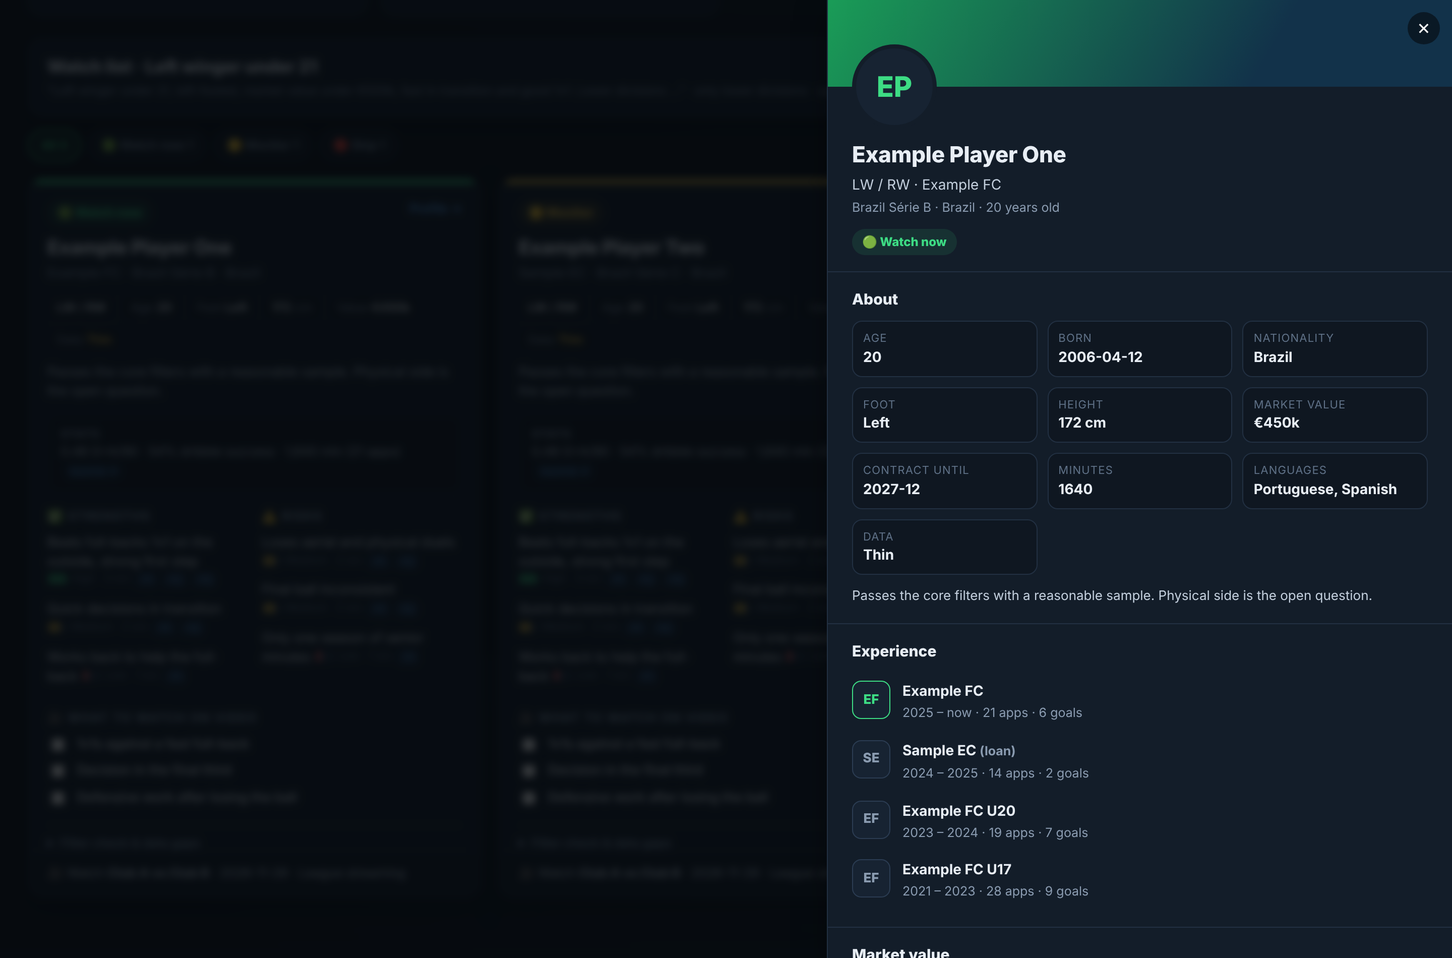
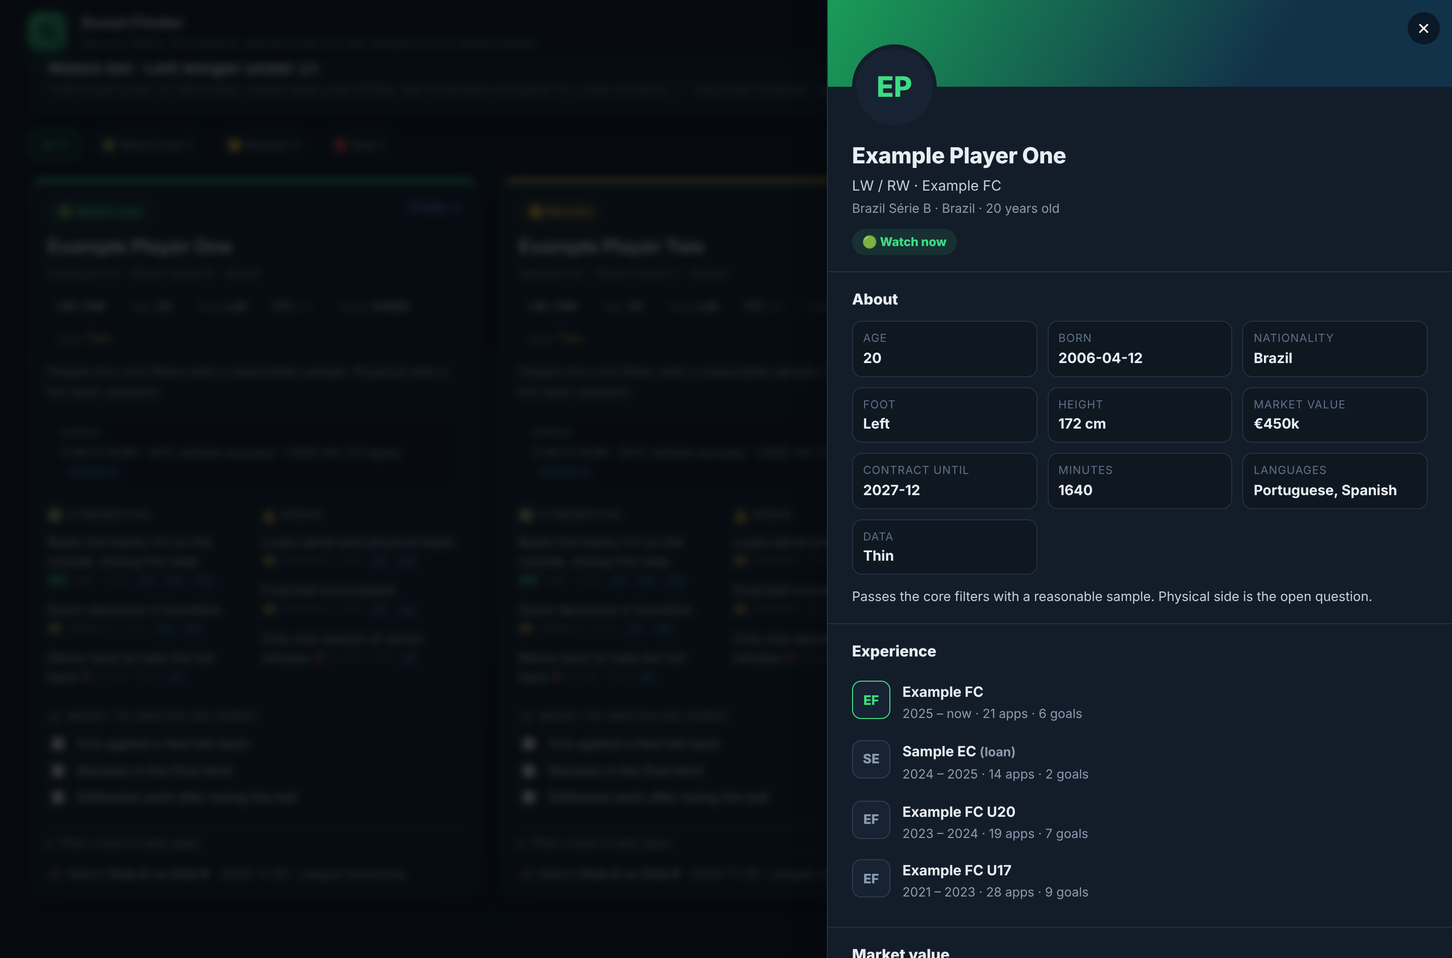
All filters on one screen, custom filters, clearer intro
- Compact 6-column filter grid that fits a 1366x768 screen without scrolling
- "+ Add filter": the scout's own free-text filters are passed to the search
- League, language and stat suggestions as autocomplete instead of chip clouds
- Header line explains the flow: filters, find players, send to Notion

Claude-Session: https://claude.ai/code/session_01S9b4rMVSmiBwiELNcknNUC

diff --git a/ui.html b/ui.html
@@ -21,7 +21,7 @@ body{background:radial-gradient(1200px 600px at 80% -10%,#12324a55,transparent),
 button,input,select,textarea{font:inherit;color:inherit}
 a{color:var(--blue);text-decoration:none}
 /* header */
-header{display:flex;align-items:center;gap:14px;padding:16px 28px;border-bottom:1px solid var(--line);
+header{display:flex;align-items:center;gap:14px;padding:10px 28px;border-bottom:1px solid var(--line);
   background:rgba(11,17,24,.75);backdrop-filter:blur(10px);position:sticky;top:0;z-index:5}
 .logo{width:38px;height:38px;border-radius:11px;background:linear-gradient(135deg,var(--accent),#1a9c57);
   display:grid;place-items:center;box-shadow:0 6px 18px #3ddc8444}
@@ -142,11 +142,11 @@ details ul{margin:8px 0;padding-left:18px;font-size:12.5px;color:#c3cfdd}
 .hist span{display:block;color:var(--muted);font-size:12px}
 .toast{position:fixed;bottom:22px;left:50%;transform:translateX(-50%);background:var(--text);color:#0b1118;padding:10px 16px;border-radius:10px;font-weight:600;z-index:30;box-shadow:var(--shadow)}
 /* ---------- layout v2: search on top, filters spread out, results below ---------- */
-main{display:block;max-width:1440px;margin:0 auto;padding:24px 28px 60px}
-.search{padding:18px 20px;margin-bottom:16px}
+main{display:block;max-width:1440px;margin:0 auto;padding:16px 28px 60px}
+.search{padding:14px 18px;margin-bottom:12px}
 .search h2{margin-bottom:10px}
-.sbox textarea{min-height:84px;font-size:15px;line-height:1.5;padding:14px 16px;border-radius:12px}
-.sbar{display:flex;flex-wrap:wrap;align-items:center;gap:12px;margin-top:12px}
+.sbox textarea{min-height:56px;height:56px;font-size:15px;line-height:1.5;padding:14px 16px;border-radius:12px}
+.sbar{display:flex;flex-wrap:wrap;align-items:center;gap:12px;margin-top:10px}
 .sbar .sp{flex:1}
 .sbar .seg{margin:0}
 .sbar .seg button{flex:none;padding:7px 14px}
@@ -157,7 +157,22 @@ main{display:block;max-width:1440px;margin:0 auto;padding:24px 28px 60px}
 .fhead2 h2{margin:0}.fhead2 .sp{flex:1}
 .linkbtn{background:none;border:0;color:var(--blue);cursor:pointer;font-weight:600;font-size:12px;padding:4px}
 .linkbtn:hover{text-decoration:underline}
-.fgrid{display:grid;grid-template-columns:repeat(auto-fill,minmax(300px,1fr));gap:14px;margin-bottom:22px}
+.filters{padding:14px 18px 16px;margin-bottom:22px}
+.filters .fhead2{margin:0 0 10px}
+.filters .opt{text-transform:none;letter-spacing:0;font-weight:500;color:var(--dim);margin-left:6px}
+.fgrid{display:grid;grid-template-columns:repeat(6,1fr);gap:10px 14px}
+.field{min-width:0}
+.field label{margin:0 0 5px;display:flex;align-items:center;font-size:11.5px}
+.field.c2{grid-column:span 2}.field.c3{grid-column:span 3}
+@media(max-width:1100px){.fgrid{grid-template-columns:repeat(4,1fr)}}
+@media(max-width:700px){.fgrid{grid-template-columns:1fr 1fr}.field.c2,.field.c3{grid-column:span 2}}
+.filters input[type=text],.filters input[type=number],.filters select{padding:7px 10px;font-size:13px;height:36px}
+.filters .tags{min-height:36px;padding:3px 6px;flex-wrap:nowrap;overflow-x:auto}
+.filters .tags input{min-width:60px;height:auto}
+.filters .seg{padding:3px;height:36px}.filters .seg button{padding:4px 6px;font-size:12px}
+.filters .row{gap:6px}
+.posrow{display:flex;flex-wrap:wrap;gap:5px}
+.posrow .chip{padding:7px 0;border-radius:8px;flex:1;min-width:34px;text-align:center;font-size:11.5px}
 .tile{background:var(--card);border:1px solid var(--line);border-radius:var(--radius);padding:14px 16px 16px}
 .tile .gt{font-size:11px;text-transform:uppercase;letter-spacing:1.1px;color:var(--dim);font-weight:700;margin-bottom:8px}
 .tile label:first-of-type{margin-top:0}
@@ -218,7 +233,7 @@ main{display:block;max-width:1440px;margin:0 auto;padding:24px 28px 60px}
 <body>
 <header>
   <div class="logo"><svg width="22" height="22" viewBox="0 0 24 24" fill="none" stroke="#06240f" stroke-width="2.2" stroke-linecap="round"><circle cx="11" cy="11" r="7"/><path d="M21 21l-4.3-4.3"/><path d="M11 8v6M8 11h6"/></svg></div>
-  <div class="brand"><b>Scout Finder</b><span>Find the right players, fast.</span></div>
+  <div class="brand"><b>Scout Finder</b><span>Set your filters, find players, add the ones you like straight to your Notion board.</span></div>
   <div class="sp"></div>
   <button class="iconbtn" id="histBtn">🕘 Saved searches</button>
   <button class="iconbtn" id="setBtn"><span class="dot" id="keyDot"></span> Settings</button>
@@ -232,70 +247,51 @@ main{display:block;max-width:1440px;margin:0 auto;padding:24px 28px 60px}
     <div class="sbar">
       <span class="lbl">Show the top</span>
       <div class="seg" id="topSeg"><button data-t="5">5</button><button data-t="10" class="on">10</button><button data-t="15">15</button></div>
-      <span class="active"><b id="activeN">0</b> extra filters · <button class="linkbtn" id="resetBtn">Reset all</button></span>
+      <span class="active"><b id="activeN">0</b> filters set</span>
       <div class="sp"></div>
       <span class="active" id="eta">≈ 5–10 min</span>
       <button class="primary" id="runBtn">Find players</button>
     </div>
   </section>
 
-  <!-- 2. filters, spread out -->
-  <div class="fhead2"><h2>Filters <span style="text-transform:none;letter-spacing:0;font-weight:500">(optional, the text above is enough)</span></h2><div class="sp"></div>
-    <button class="linkbtn" id="toggleF">Hide filters</button></div>
-  <section class="fgrid" id="formPanel">
-    <div class="tile"><div class="gt">Position</div><div class="posgrid" id="posGrid"></div></div>
+  <!-- 2. all filters on one screen -->
+  <section class="panel filters" id="formPanel">
+    <div class="fhead2"><h2>Filters <span class="opt">optional · the text above is enough</span></h2><div class="sp"></div>
+      <button class="linkbtn" id="resetBtn">Reset all</button></div>
+    <div class="fgrid">
+      <div class="field c3"><label>Position</label><div class="posrow" id="posGrid"></div></div>
+      <div class="field"><label>Age</label><div class="row"><input type="number" id="fAgeMin" placeholder="Min"><input type="number" id="fAgeMax" placeholder="Max"></div></div>
+      <div class="field"><label>Min value</label><div class="unit"><input type="number" id="fMinVal" placeholder="Any" step="50"><span>k €</span></div></div>
+      <div class="field"><label>Max value</label>
+        <select id="fMaxSel"><option value="">Any</option><option value="250">€250k</option><option value="500">€500k</option><option value="1000">€1M</option><option value="3000">€3M</option><option value="10000">€10M</option></select></div>
 
-    <div class="tile"><div class="gt">Age</div>
-      <div class="row"><div class="unit"><input type="number" id="fAgeMin" placeholder="Min"><span>yrs</span></div>
-        <div class="unit"><input type="number" id="fAgeMax" placeholder="Max"><span>yrs</span></div></div>
-      <div class="quick" id="ageQuick"><button class="chip" data-a="19">U19</button><button class="chip" data-a="21">U21</button><button class="chip" data-a="23">U23</button><button class="chip" data-a="">Any</button></div>
-      <div class="gt" style="margin-top:14px">Budget · market value</div>
-      <div class="row"><div class="unit"><input type="number" id="fMinVal" placeholder="Min" step="50"><span>k €</span></div>
-        <div class="unit"><input type="number" id="fMaxVal" placeholder="Max" step="50"><span>k €</span></div></div>
-      <div class="quick" id="valQuick"><button class="chip" data-v="250">≤ €250k</button><button class="chip" data-v="500">≤ €500k</button><button class="chip" data-v="1000">≤ €1M</button><button class="chip" data-v="3000">≤ €3M</button><button class="chip" data-v="">Any</button></div>
-    </div>
+      <div class="field c2"><label>Leagues / countries</label>
+        <div class="tags" id="leagueTags"><input type="text" list="dlLeagues" placeholder="e.g. Brazil, Portugal Liga 2"></div></div>
+      <div class="field c2"><label>Divisions</label>
+        <div class="seg small" id="lowerSeg"><button data-l="" class="on">Top only</button><button data-l="also">+ Lower</button><button data-l="only">Only lower</button></div></div>
+      <div class="field"><label>Nationality</label><div class="tags" id="natTags"><input type="text" placeholder="Any"></div></div>
+      <div class="field"><label>Languages</label><div class="tags" id="langTags"><input type="text" list="dlLangs" placeholder="Any"></div></div>
 
-    <div class="tile"><div class="gt">Leagues / countries</div>
-      <div class="tags" id="leagueTags"><input type="text" placeholder="Type and press Enter"></div>
-      <div class="quick" id="leagueQuick"></div>
-      <div class="gt" style="margin-top:14px">Divisions</div>
-      <div class="seg small" id="lowerSeg"><button data-l="" class="on">Top only</button><button data-l="also">+ Lower</button><button data-l="only">Only lower</button></div>
-    </div>
+      <div class="field"><label>Foot</label>
+        <div class="seg small" id="footSeg"><button data-f="Any" class="on">Any</button><button data-f="Left">Left</button><button data-f="Right">Right</button></div></div>
+      <div class="field"><label>Min height</label><div class="unit"><input type="number" id="fHeight" placeholder="Any"><span>cm</span></div></div>
+      <div class="field"><label>Contract ends by</label><select id="fContract"><option value="">Any</option><option>2026</option><option>2027</option><option>2028</option></select></div>
+      <div class="field"><label>Minutes this season</label><select id="fMinutes"><option value="">Any</option><option value="450">450+</option><option value="900">900+</option><option value="1500">1,500+</option></select></div>
+      <div class="field c2"><label>Stat thresholds</label><input type="text" id="fCriteria" list="dlCrit" placeholder="G+A per 90 ≥ 0.4; dribble success ≥ 50%"></div>
 
-    <div class="tile"><div class="gt">Nationality</div>
-      <div class="tags" id="natTags"><input type="text" placeholder="Any nationality"></div>
-      <div class="gt" style="margin-top:14px">Languages spoken</div>
-      <div class="tags" id="langTags"><input type="text" placeholder="Any language"></div>
-      <div class="quick" id="langQuick"></div>
+      <div class="field c2"><label>Style, checked on video</label><input type="text" id="fMust" placeholder="Pace in transition, presses"></div>
+      <div class="field c2"><label>Brief specific players</label><input type="text" id="fPlayers" placeholder="Names, comma separated"></div>
+      <div class="field c2"><label>Your own filters <button class="linkbtn" id="addCustom" style="margin-left:4px">＋ Add filter</button></label>
+        <div class="tags" id="customTags"><input type="text" placeholder="e.g. EU passport · press Enter"></div></div>
     </div>
-
-    <div class="tile"><div class="gt">Profile</div>
-      <label>Preferred foot</label>
-      <div class="seg small" id="footSeg"><button data-f="Any" class="on">Any</button><button data-f="Left">Left</button><button data-f="Right">Right</button></div>
-      <div class="row">
-        <div><label>Min height</label><div class="unit"><input type="number" id="fHeight" placeholder="Any"><span>cm</span></div></div>
-        <div><label>Contract ends by</label><select id="fContract"><option value="">Any</option><option>2026</option><option>2027</option><option>2028</option></select></div>
-      </div>
-      <label>Minutes this season</label>
-      <div class="quick" id="minQuick" style="margin-top:0"><button class="chip on" data-m="">Any</button><button class="chip" data-m="450">450+</button><button class="chip" data-m="900">900+</button><button class="chip" data-m="1500">1,500+</button></div>
-    </div>
-
-    <div class="tile"><div class="gt">Performance</div>
-      <label>Stat thresholds</label>
-      <textarea id="fCriteria" placeholder="G+A per 90 ≥ 0.4; dribble success ≥ 50%"></textarea>
-      <div class="quick" id="critQuick"></div>
-      <label>Style, checked on video</label>
-      <textarea id="fMust" placeholder="Pace in transition, presses, works without the ball"></textarea>
-      <label>Or brief specific players</label>
-      <input type="text" id="fPlayers" placeholder="Names, comma separated">
-    </div>
+    <datalist id="dlLeagues"></datalist><datalist id="dlLangs"></datalist><datalist id="dlCrit"></datalist>
   </section>
 
   <!-- 3. results -->
   <section id="results">
     <div id="vEmpty" class="panel hero">
       <h1>Find the right players, fast.</h1>
-      <p>Describe who you need and press Find players.</p>
+      <p>1. Describe the player or set filters · 2. Find players · 3. Click ＋ Watchlist to send them to your Notion board.</p>
       <div class="flow">
         <div><i>✍</i><b>Describe</b><span>Plain words, or the filters</span></div>
         <div><i>🔎</i><b>Find</b><span>Transfermarkt, FotMob, Sofascore, Ogol</span></div>
@@ -394,15 +390,15 @@ function toast(t){const d=document.createElement("div");d.className="toast";d.te
 /* ---------- filter state ---------- */
 let foot="Any", lower="", topN=10, minMinutes="", positions=new Set(), added={}, current=null, settings={}, sigFilter="all";
 const POS_GROUPS = [["Goal & defence",["GK","CB","RB","LB","RWB","LWB"]],["Midfield",["DM","CM","AM"]],["Attack",["RW","LW","SS","ST"]]];
-$("#posGrid").innerHTML = POS_GROUPS.map(([g,ps]) => `<div class="lbl">${g}</div>` + ps.map(p=>`<button class="chip" data-p="${p}">${p}</button>`).join("")).join("");
+$("#posGrid").innerHTML = POS_GROUPS.flatMap(([g,ps]) => ps).map(p=>`<button class="chip" data-p="${p}">${p}</button>`).join("");
 $("#posGrid").onclick = e => { const p=e.target.dataset.p; if(!p) return; positions.has(p)?positions.delete(p):positions.add(p); e.target.classList.toggle("on"); count(); };
 
 const LEAGUES = ["Brazil Série A","Brazil Série B","Brazil Série C","Argentina Primera","Argentina Primera Nacional","Colombia Primera A","Ghana","Nigeria","Senegal","Portugal Liga 2","Belgium 2nd tier","Netherlands Eerste Divisie","Denmark Superliga","Norway Eliteserien","Austria Bundesliga"];
 const LANGS = ["English","Spanish","Portuguese","French","German","Italian","Turkish","Arabic"];
 const CRIT = ["G+A per 90 ≥ 0.4","Dribble success ≥ 50%","Avg rating ≥ 7.0","Key passes per 90 ≥ 1.5","Pass accuracy ≥ 80%","Tackles + interceptions per 90 ≥ 3","Aerial duels won ≥ 55%"];
-$("#critQuick").innerHTML = CRIT.map(c=>`<button class="chip" data-c="${esc(c)}">+ ${esc(c)}</button>`).join("");
-$("#critQuick").onclick = e => { const c=e.target.dataset.c; if(!c) return; const t=$("#fCriteria");
-  if(t.value.includes(c)) return; t.value = (t.value.trim() ? t.value.trim().replace(/;?$/,"; ") : "") + c; count(); };
+$("#dlLeagues").innerHTML = LEAGUES.map(l=>`<option value="${esc(l)}">`).join("");
+$("#dlLangs").innerHTML = LANGS.map(l=>`<option value="${esc(l)}">`).join("");
+$("#dlCrit").innerHTML = CRIT.map(l=>`<option value="${esc(l)}">`).join("");
 
 function tagBox(id, quickId, list){
   const box=$(id), input=box.querySelector("input"), vals=[];
@@ -410,6 +406,7 @@ function tagBox(id, quickId, list){
     vals.forEach((v,i)=>{ const t=document.createElement("span"); t.className="tagx"; t.innerHTML=`${esc(v)}<button data-i="${i}">×</button>`; box.insertBefore(t,input); });
     if(quickId) $$(quickId+" .chip").forEach(c=>c.classList.toggle("on", vals.includes(c.dataset.l))); count(); };
   const add=v=>{ v=v.trim(); if(v && !vals.includes(v)){ vals.push(v); render(); } };
+  input.onchange=()=>{ if(input.list && [...input.list.options].some(o=>o.value===input.value)){ add(input.value); input.value=""; } };
   input.onkeydown=e=>{ if(e.key==="Enter"||e.key===","){ e.preventDefault(); add(input.value); input.value=""; }
     if(e.key==="Backspace" && !input.value && vals.length){ vals.pop(); render(); } };
   input.onblur=()=>{ if(input.value){ add(input.value); input.value=""; } };
@@ -418,9 +415,11 @@ function tagBox(id, quickId, list){
     $(quickId).onclick=e=>{ const l=e.target.dataset.l; if(!l) return; const i=vals.indexOf(l); i>=0?vals.splice(i,1):vals.push(l); render(); }; }
   return {vals, set:a=>{ vals.splice(0,vals.length,...a); render(); }};
 }
-const leagues = tagBox("#leagueTags","#leagueQuick",LEAGUES);
+const leagues = tagBox("#leagueTags");
 const nats = tagBox("#natTags");
-const langs = tagBox("#langTags","#langQuick",LANGS);
+const langs = tagBox("#langTags");
+const custom = tagBox("#customTags");
+$("#addCustom").onclick = e => { e.preventDefault(); $("#customTags input").focus(); };
 
 function seg(id, attr, cb){ $(id).onclick = e => { const v=e.target.dataset[attr]; if(v===undefined) return;
   $$(id+" button").forEach(b=>b.classList.toggle("on", b===e.target)); cb(v); count(); }; }
@@ -431,40 +430,35 @@ seg("#topSeg","t", v=>{ topN=+v; eta(); });
 function eta(){ const n = $("#fPlayers").value.split(",").filter(x=>x.trim()).length || topN;
   $("#eta").textContent = `≈ ${Math.max(1,Math.round(n*0.6))}–${Math.max(2,n)} min`; }
 
-$("#ageQuick").onclick = e => { const a=e.target.dataset.a; if(a===undefined) return; $("#fAgeMax").value=a; if(!a) $("#fAgeMin").value="";
-  $$("#ageQuick .chip").forEach(c=>c.classList.toggle("on", c===e.target && a!=="")); count(); };
-$("#valQuick").onclick = e => { const v=e.target.dataset.v; if(v===undefined) return; $("#fMaxVal").value=v; if(!v) $("#fMinVal").value="";
-  $$("#valQuick .chip").forEach(c=>c.classList.toggle("on", c===e.target && v!=="")); count(); };
-$("#minQuick").onclick = e => { const m=e.target.dataset.m; if(m===undefined) return; minMinutes=m; $$("#minQuick .chip").forEach(c=>c.classList.toggle("on", c===e.target)); count(); };
-$$("#formPanel input, #formPanel textarea, #formPanel select").forEach(el=>el.addEventListener("input", ()=>{ count(); eta(); }));
-$("#toggleF").onclick = () => { const h=$("#formPanel").classList.toggle("hidden"); $("#toggleF").textContent = h ? "Show filters" : "Hide filters"; };
+$$("#formPanel input, #formPanel select").forEach(el=>{ el.addEventListener("input", ()=>{ count(); eta(); }); el.addEventListener("change", count); });
 $("#fDesc").onkeydown = e => { if(e.key==="Enter" && (e.ctrlKey||e.metaKey)) $("#runBtn").click(); };
 
 function getFilters(){
   const k = v => v==="" ? "" : String(Number(v)*1000), d=$("#fDesc").value.trim();
   return { title:d.split(/[.\n]/)[0].slice(0,60) || "Player search", description:d, positions:[...positions], age_min:$("#fAgeMin").value, age_max:$("#fAgeMax").value, foot,
-    min_value:k($("#fMinVal").value), max_value:k($("#fMaxVal").value), leagues:[...leagues.vals], nationalities:[...nats.vals], languages:[...langs.vals],
-    lower, min_minutes:minMinutes, min_height:$("#fHeight").value, contract_by:$("#fContract").value,
-    criteria:$("#fCriteria").value, must_haves:$("#fMust").value };
+    min_value:k($("#fMinVal").value), max_value:k($("#fMaxSel").value), leagues:[...leagues.vals], nationalities:[...nats.vals], languages:[...langs.vals],
+    lower, min_minutes:$("#fMinutes").value, min_height:$("#fHeight").value, contract_by:$("#fContract").value,
+    criteria:$("#fCriteria").value, must_haves:$("#fMust").value, custom:[...custom.vals] };
 }
 function count(){
   const f=getFilters(); let n=0;
   n += f.positions.length?1:0; n += (f.age_min||f.age_max)?1:0; n += (f.min_value||f.max_value)?1:0; n += f.leagues.length?1:0; n += f.lower?1:0;
   n += f.nationalities.length?1:0; n += f.languages.length?1:0; n += f.foot!=="Any"?1:0; n += f.min_minutes?1:0; n += f.min_height?1:0; n += f.contract_by?1:0;
-  n += f.criteria.split(";").filter(x=>x.trim()).length; n += f.must_haves.trim()?1:0;
+  n += f.criteria.split(";").filter(x=>x.trim()).length; n += f.must_haves.trim()?1:0; n += f.custom.length;
   $("#activeN").textContent = n; return n;
 }
 function setFilters(f){
   $("#fDesc").value=f.description||(f.title&&f.title!=="Player search"?f.title:""); positions=new Set(f.positions||[]); $$("#posGrid .chip").forEach(c=>c.classList.toggle("on",positions.has(c.dataset.p)));
   $("#fAgeMin").value=f.age_min??""; $("#fAgeMax").value=f.age_max??"";
-  $("#fMinVal").value=f.min_value_eur?f.min_value_eur/1000:""; $("#fMaxVal").value=f.max_value_eur?f.max_value_eur/1000:"";
-  leagues.set(f.leagues||[]); nats.set(f.nationalities||[]); langs.set(f.languages||[]);
+  $("#fMinVal").value=f.min_value_eur?f.min_value_eur/1000:"";
+  const mx=f.max_value_eur?String(f.max_value_eur/1000):""; if(mx && ![...$("#fMaxSel").options].some(o=>o.value===mx)) $("#fMaxSel").add(new Option("€"+mx+"k", mx)); $("#fMaxSel").value=mx;
+  leagues.set(f.leagues||[]); nats.set(f.nationalities||[]); langs.set(f.languages||[]); custom.set(f.custom||[]);
   lower = f.only_lower_leagues ? "only" : f.include_lower_leagues ? "also" : ""; setSeg("#lowerSeg","l",lower);
   foot=f.foot||"Any"; setSeg("#footSeg","f",foot);
-  minMinutes=f.min_minutes?String(f.min_minutes):""; $$("#minQuick .chip").forEach(c=>c.classList.toggle("on", c.dataset.m===minMinutes));
+  $("#fMinutes").value=f.min_minutes?String(f.min_minutes):"";
   $("#fHeight").value=f.min_height_cm??""; $("#fContract").value=f.contract_ends_by||"";
   $("#fCriteria").value=f.criteria||""; $("#fMust").value=f.must_haves||"";
-  $$("#ageQuick .chip, #valQuick .chip").forEach(c=>c.classList.remove("on")); count();
+  count();
 }
 $("#resetBtn").onclick = () => { setFilters({}); $("#fPlayers").value=""; toast("Search cleared"); };
 
@@ -551,7 +545,7 @@ function nextStep(b){
 function filterLine(f){
   return [f.description?`“${f.description.slice(0,110)}${f.description.length>110?"…":""}”`:"", (f.positions||[]).join("/"), (f.age_min||f.age_max)?`age ${f.age_min||"any"}–${f.age_max||"any"}`:"", f.max_value_eur?`≤ ${euro(f.max_value_eur)}`:"",
     f.foot&&f.foot!=="Any"?`${f.foot} foot`:"", (f.leagues||[]).join(", "), f.only_lower_leagues?"only lower divisions":f.include_lower_leagues?"+ lower divisions":"",
-    (f.nationalities||[]).join(", "), (f.languages||[]).length?"speaks "+f.languages.join("/"):"", f.min_minutes?`${f.min_minutes}+ min`:""].filter(Boolean).join(" · ");
+    (f.nationalities||[]).join(", "), (f.languages||[]).length?"speaks "+f.languages.join("/"):"", ...(f.custom||[]), f.min_minutes?`${f.min_minutes}+ min`:""].filter(Boolean).join(" · ");
 }
 function card(b,i){
   const k = sigClass(b.signal), a = age(b.date_of_birth), dq = (b.data_quality||"").split(" ")[0];

diff --git a/scout_finder.py b/scout_finder.py
@@ -71,6 +71,7 @@ class SearchFilters(BaseModel):
     contract_ends_by: Optional[str] = None     # YYYY or YYYY-MM-DD
     criteria: str = ""                         # measurable thresholds
     must_haves: str = ""                       # style, checked on video
+    custom: list[str] = []                     # the scout's own filters, free text
 
     def describe(self) -> str:
         p = [f"Search: {self.title}"]
@@ -107,6 +108,8 @@ class SearchFilters(BaseModel):
             p.append(f"Measurable criteria: {self.criteria}")
         if self.must_haves:
             p.append(f"Must-haves (check on video): {self.must_haves}")
+        for c in self.custom:
+            p.append(f"Extra filter from the scout: {c}")
         return "\n".join(p)
 
 

diff --git a/app.py b/app.py
@@ -122,7 +122,7 @@ def filters_from_payload(f: dict) -> sf.SearchFilters:
     lst = lambda k: f[k] if isinstance(f.get(k), list) else sf._csv(f.get(k))
     return sf.SearchFilters(
         title=(f.get("title") or (f.get("description") or "")[:60].strip() or "Player search"),
-        description=f.get("description") or "", languages=lst("languages"),
+        description=f.get("description") or "", languages=lst("languages"), custom=lst("custom"),
         only_lower_leagues=f.get("lower") == "only",
         positions=lst("positions"), age_min=num("age_min", int), age_max=num("age_max", int),
         foot=f.get("foot") or None, max_value_eur=num("max_value"), min_value_eur=num("min_value"),

diff --git a/README.md b/README.md
@@ -34,7 +34,7 @@ Tip: make a desktop shortcut. macOS: right-click → *Make Alias*. Windows: righ
 ## Use it
 
 1. Describe the player in your own words at the top ("Left winger under 21, left-footed, under €500k, lower divisions in Brazil, speaks Portuguese"). That is enough to search.
-2. Optional: narrow it with the filters below (position, age, budget, leagues, top / + lower / only lower divisions, nationality, languages spoken, foot, height, contract, minutes, stat thresholds).
+2. Optional: narrow it with the filters below, all on one screen (position, age, budget, leagues, top / + lower / only lower divisions, nationality, languages spoken, foot, height, contract, minutes, stat thresholds, style). **＋ Add filter** lets you type your own (e.g. "EU passport").
 3. Pick how many players to show: top 5, 10 (default) or 15. Press **Find players**. Progress shows step by step.
 4. Read the cards. Filter by signal, sort by age, price or data quality.
 5. Click a player for the profile: details, career (clubs and years), a market value chart when a source lists the history, player pages (Transfermarkt, FotMob, Sofascore) and public contacts (agent, club website, email, phone). Contacts are shown only when a public page lists them, never guessed.
